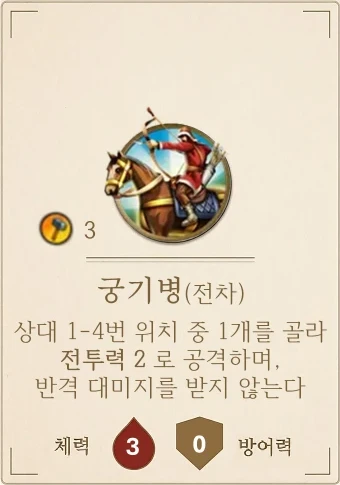
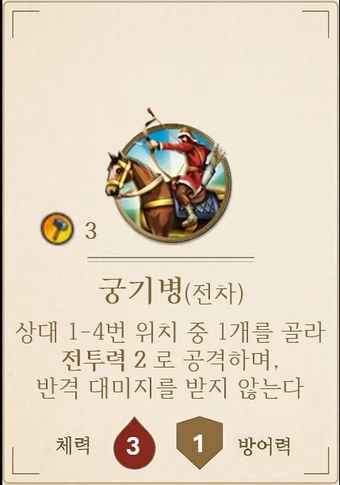
궁기병(훈족) 방어력 0 → 1
- civs.json 능력치, 카드 그림 교체
- 능력치 테스트, docs/open-questions.md #54

Claude-Session: https://claude.ai/code/session_01LEwiRiXRJPjckZxHM1aEbm

diff --git a/src/engine/__tests__/uniques.test.ts b/src/engine/__tests__/uniques.test.ts
@@ -67,11 +67,12 @@ describe('고유 유닛 데이터', () => {
     for (const [name, supply] of Object.entries(s.uniqueSupply)) expect(supply, name).toHaveLength(3)
   })
 
-  it('카드에 적힌 능력치를 쓴다 (장갑보병, 케식텐, 낙타궁수, 프라싱야, 화차, 재규어)', () => {
+  it('카드에 적힌 능력치를 쓴다 (장갑보병, 케식텐, 낙타궁수, 궁기병, 프라싱야, 화차, 재규어)', () => {
     const st = (name: string) => cardStats({ uid: 0, defId: UNIQUES[name].def.base, unique: name, dirs: ['C'] })
     expect(st('장갑보병')).toMatchObject({ hp: 3, def: 2, marks: [{ dir: 'C', power: 2 }], baseId: 'spearman' })
     expect(st('케식텐')).toMatchObject({ hp: 5, def: 1, choose: 2, noCounter: true, baseId: 'knight' })
     expect(st('낙타궁수')).toMatchObject({ hp: 4, def: 2, choose: 2, noCounter: true, baseId: 'knight' })
+    expect(st('궁기병')).toMatchObject({ hp: 3, def: 1, choose: 2, noCounter: true, baseId: 'chariot' })
     expect(st('프라싱야')).toMatchObject({ hp: 6, def: 3, baseId: 'infantry' })
     expect(st('화차')).toMatchObject({ hp: 3, def: 3, noCounter: true, baseId: 'hwacha' })
     expect(st('재규어')).toMatchObject({ hp: 3, def: 0, marks: [{ dir: 'C', power: 1 }], baseId: 'warrior' }) // 체력 4 → 3 (사용자 결정)

diff --git a/docs/open-questions.md b/docs/open-questions.md
@@ -58,6 +58,7 @@
 | 51 | 낙타궁수(아라비아)·케식텐(몽골) 능력치 | 사용자 결정(카드 수정): 낙타궁수 체력 3 → 4 (방어력 2 그대로), 케식텐 체력 4 → 5·방어력 0 → 1. 비용 6, 대상 골라 전투력 2, 반격 안 받음은 그대로. 카드 그림 체력·방어력 칸도 수정 |
 | 52 | 테르시오(스페인) 전투력 | 사용자 결정(카드 수정): 전투력 3 → 4 (기사·기병대 상대일 때). 기사·기병대가 아닌 상대에게는 전투력 2·방어력 1로 계산하는 효과, 비용 7, 체력 5, 방어력 5는 그대로. 카드 그림 L·C·R의 전투력 칸도 수정 |
 | 53 | 화차(한국) 체력 | 사용자 결정(카드 수정): 체력 2 → 3. 비용 6, 전투력 2, 방어력 3, 반격 안 받음, 자기 원래 타일 전투 때 체력 +2는 그대로. 카드 그림 L·C·R과 재규어 C·R은 사용자가 준 카드 그림으로 교체 |
+| 54 | 궁기병(훈족) 방어력 | 사용자 결정(카드 수정): 방어력 0 → 1. 비용 3, 체력 3, 대상 골라 전투력 2, 반격 안 받음은 그대로. 카드 그림은 사용자가 준 그림으로 교체 |
 
 ## 공개 범위 (설계 결정)
 - 공개: 타일·기술·정책·불가사의·군사 카드 **장수**, 로그에 남는 "무엇을 생산·승급했는지".
